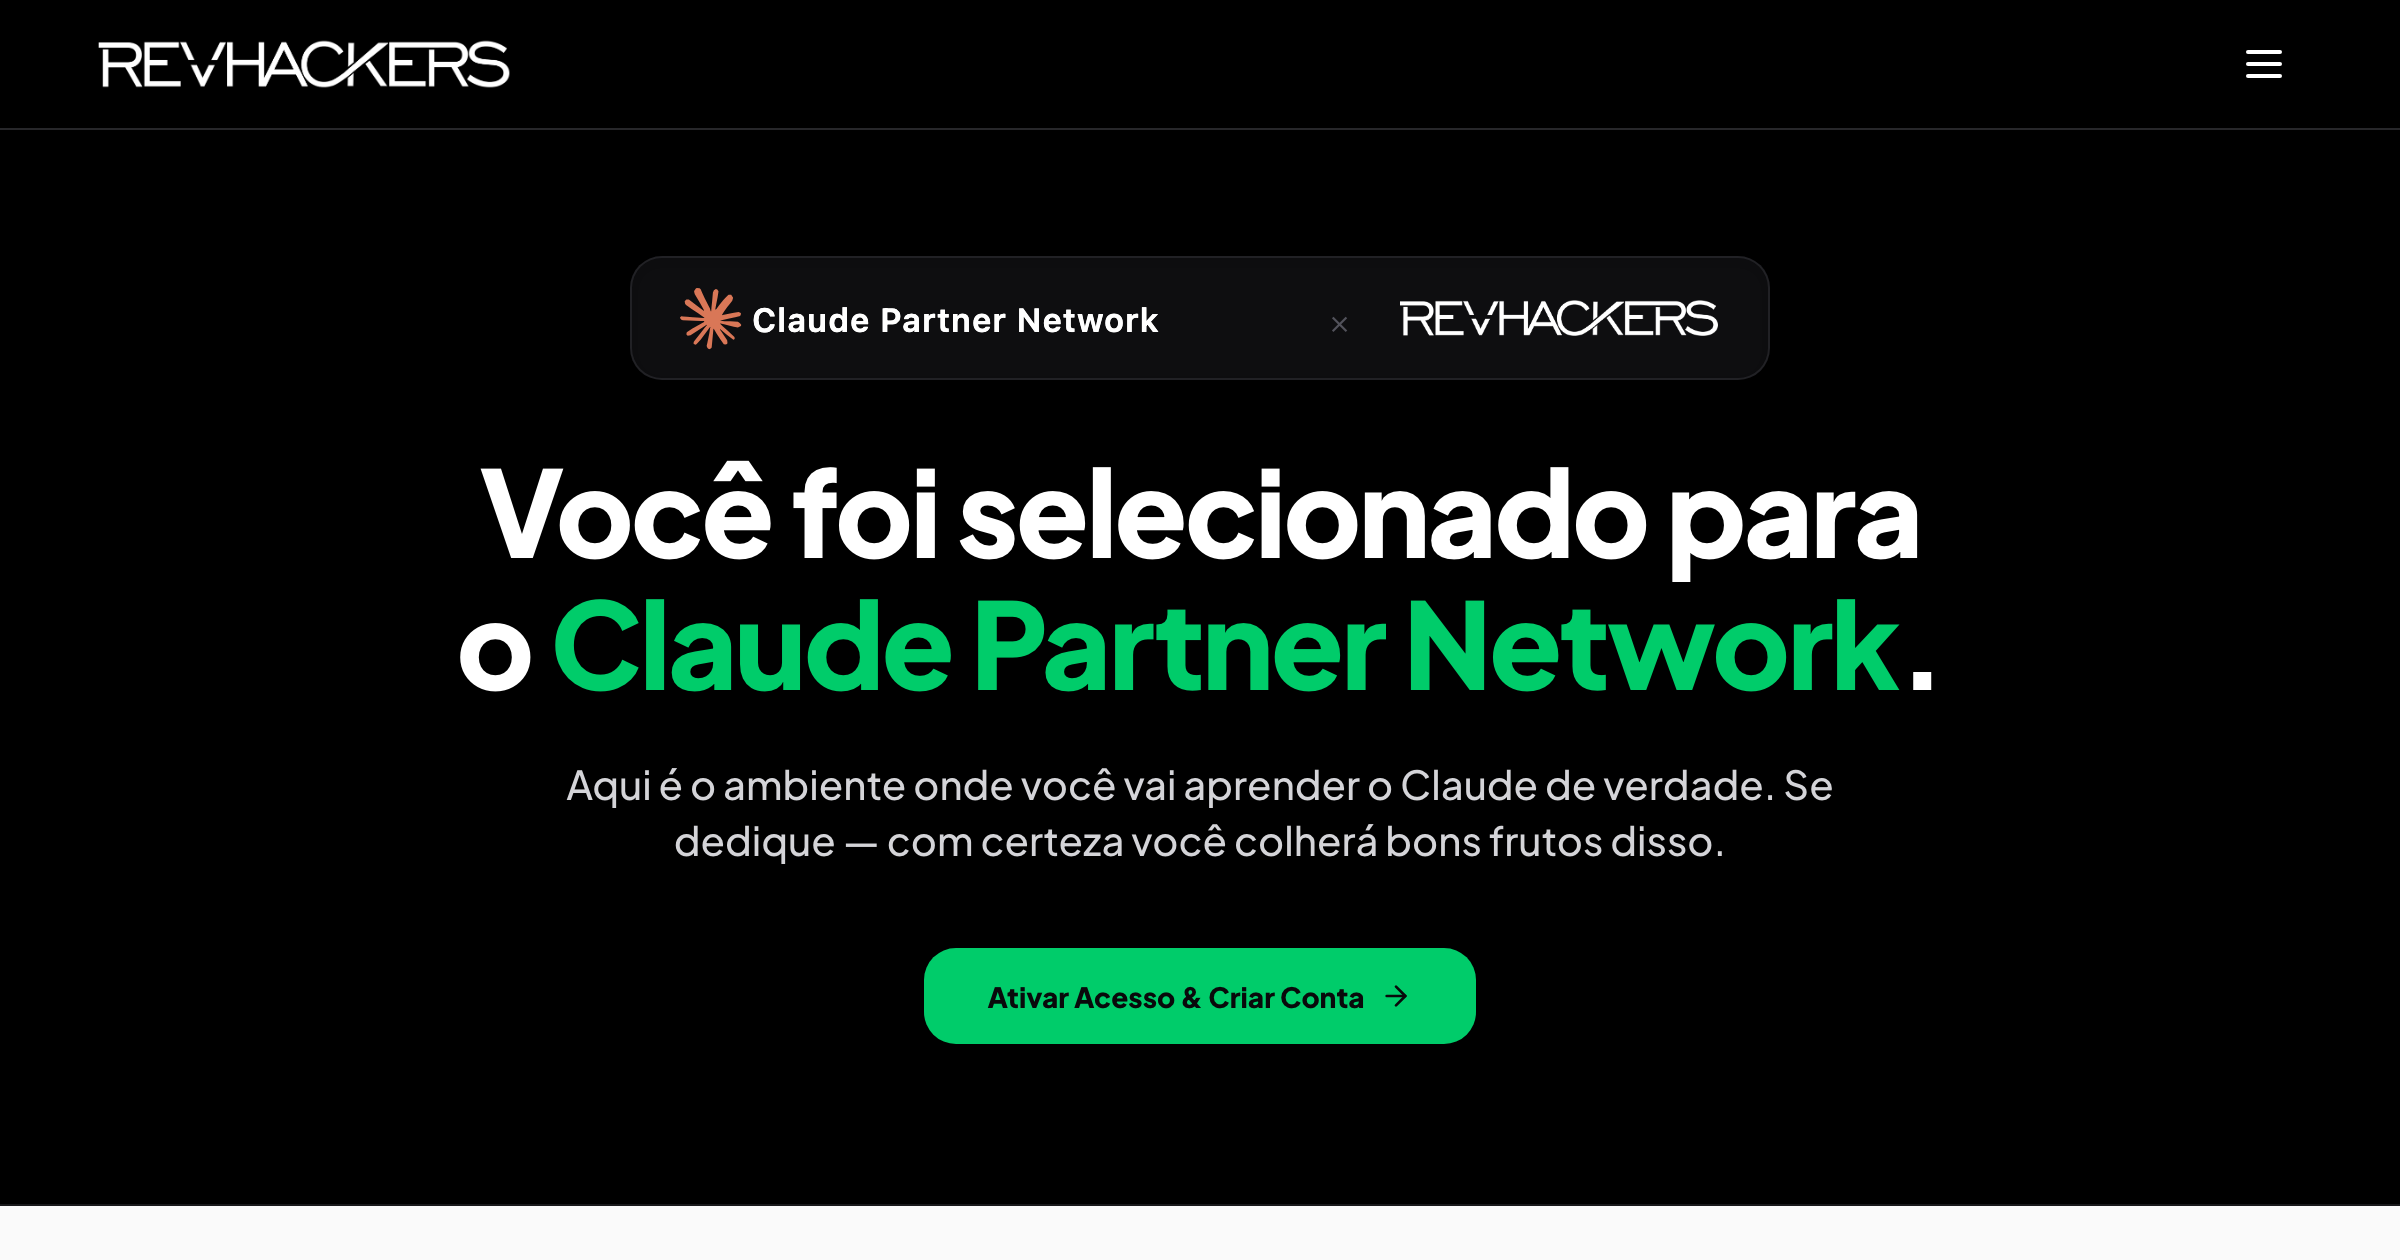
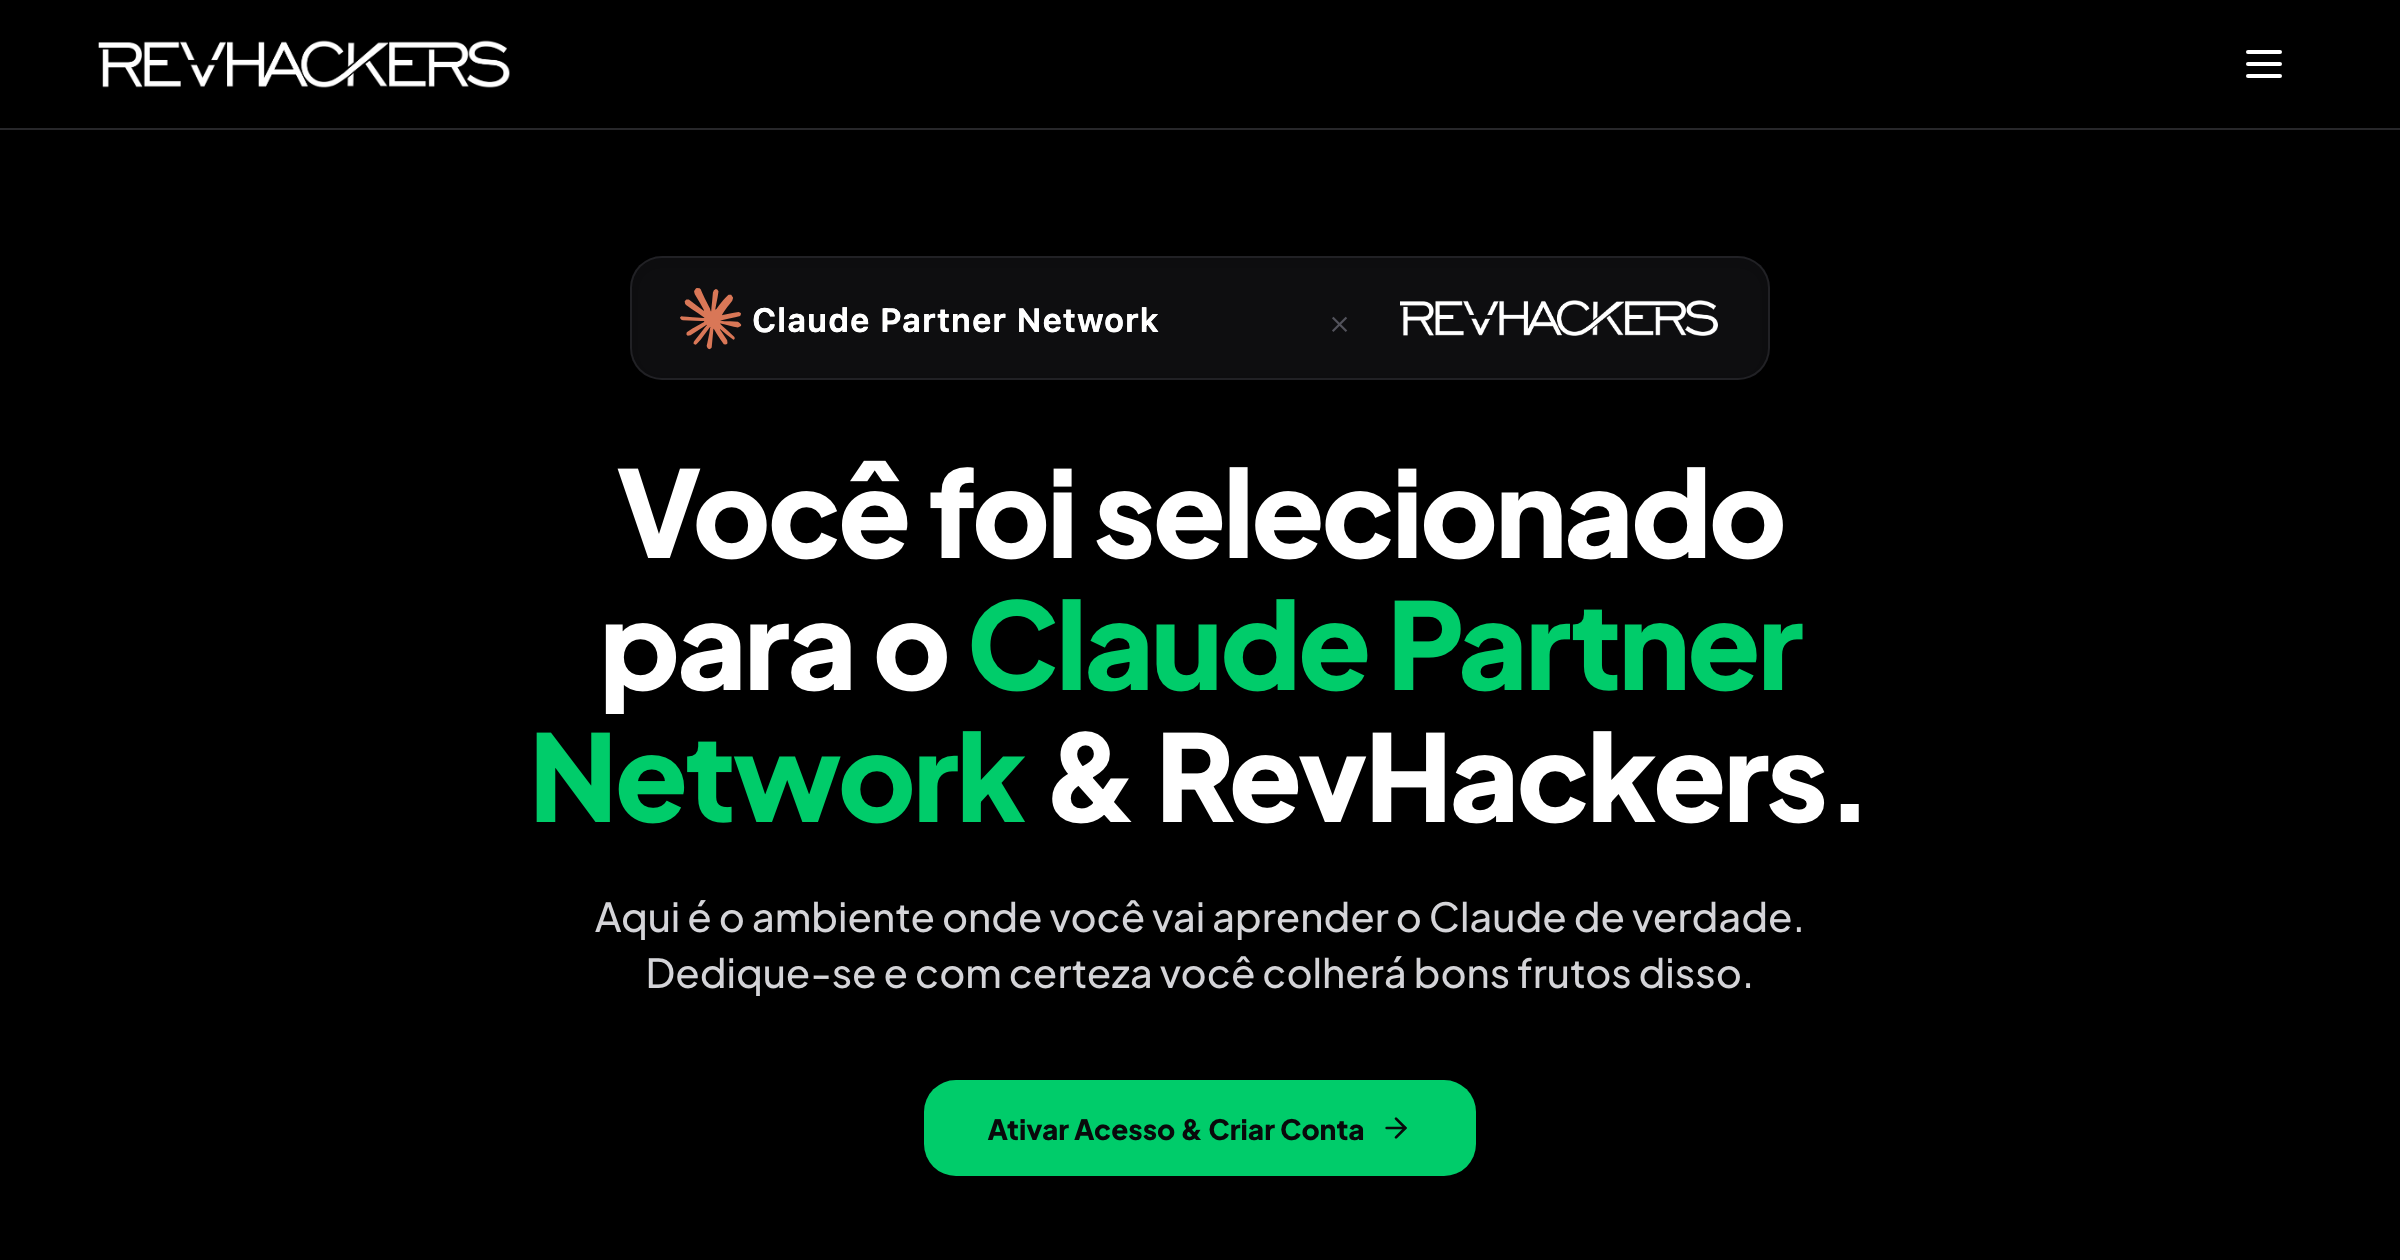
style(hero): update H1 to include RevHackers and remove em-dashes from subheadline

Changed region(s): [[0.0, 0.7119, 1.0, 1.0], [0.1875, 0.3714, 0.8125, 0.681]]

diff --git a/src/pages/ClaudePartnerNetworkPage.tsx b/src/pages/ClaudePartnerNetworkPage.tsx
@@ -164,7 +164,7 @@ export default function ClaudePartnerNetworkPage() {
             transition={{ duration: 0.5, delay: 0.05, ease: 'easeOut' }}
             className="font-sans text-[2.25rem] sm:text-[3rem] md:text-[3.75rem] font-extrabold text-white leading-[1.1] tracking-tight text-center max-w-3xl"
           >
-            Você foi selecionado para o <span className="text-[#00CC6A]">Claude Partner Network</span>.
+            Você foi selecionado para o <span className="text-[#00CC6A]">Claude Partner Network</span> & RevHackers.
           </motion.h1>
 
           {/* Subheadline */}
@@ -174,7 +174,7 @@ export default function ClaudePartnerNetworkPage() {
             transition={{ duration: 0.5, delay: 0.1, ease: 'easeOut' }}
             className="text-zinc-300 text-base md:text-xl font-medium leading-relaxed max-w-2xl mx-auto text-center"
           >
-            Aqui é o ambiente onde você vai aprender o Claude de verdade. Se dedique — com certeza você colherá bons frutos disso.
+            Aqui é o ambiente onde você vai aprender o Claude de verdade. Dedique-se e com certeza você colherá bons frutos disso.
           </motion.p>
 
           <motion.div
